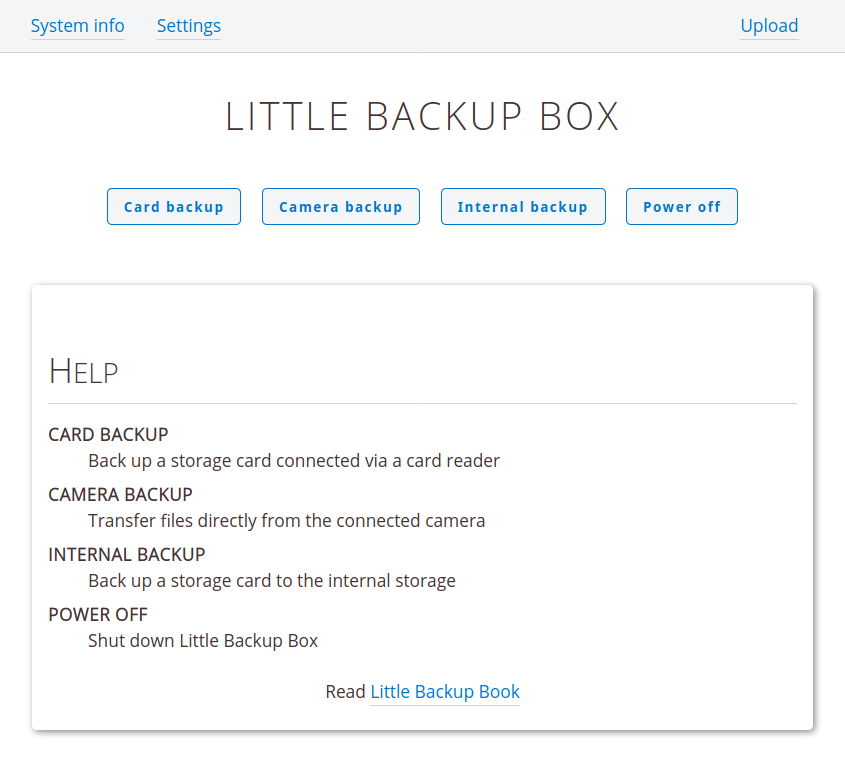
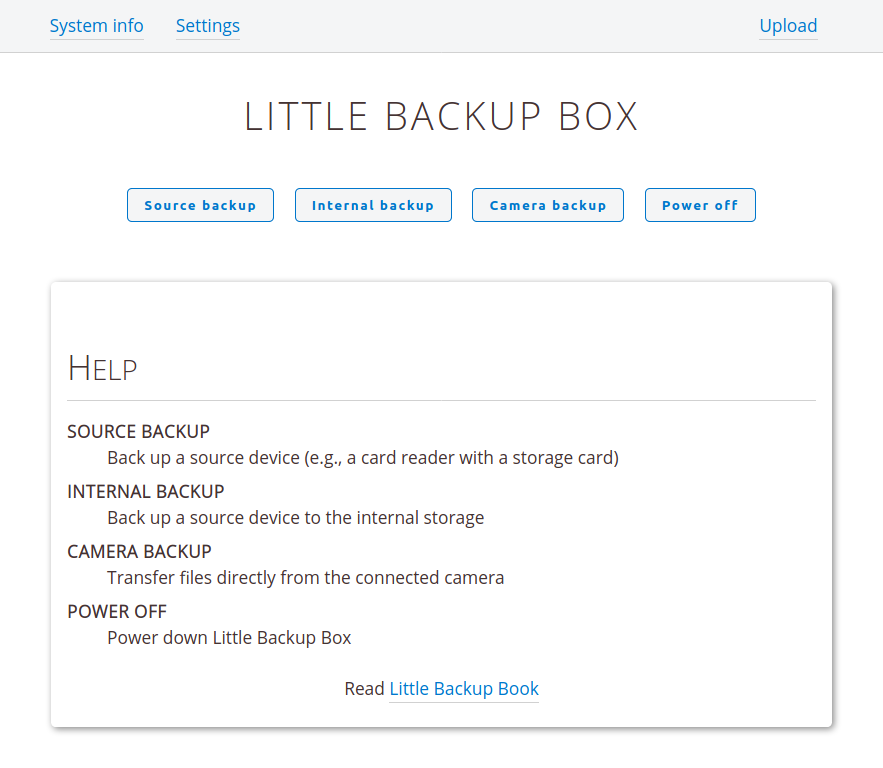
Minor tweaks

diff --git a/scripts/index.php b/scripts/index.php
@@ -27,8 +27,8 @@
 	</nav>
 	<form class="text-center" method="POST">
 		<button name="sourcebackup"><?php echo L::sourcebackup_b; ?></button>
-		<button name="camerabackup"><?php echo L::camerabackup_b; ?></button>
 		<button name="internalbackup"><?php echo L::internalbackup_b; ?></button>
+		<button name="camerabackup"><?php echo L::camerabackup_b; ?></button>
 		<button name="shutdown"><?php echo L::shutdown_b; ?></button>
 	</form>
 	<div class="card" style="margin-top: 3em;">

diff --git a/README.md b/README.md
@@ -6,9 +6,9 @@ Little Backup Box is an application that transforms a Raspberry Pi (or any singl
 
 ## Little Backup Box features
 
-- Back up data from one USB storage device to another. Little Backup Box supports all types of USB solid-state storage devices and all popular formats.
+- Back up data from one USB storage device to another. Little Backup Box supports all types of USB solid-state storage devices and all mainstream formats.
 - Transfer photos and RAW files directly from a camera to an external USB storage device. If your camera is supported by gPhoto2 software, it will work with Little Backup Box.
-- Use multiple cards and storage devices. Little Backup Box assigns a unique ID to each storage device and create a separate folder for it on the backup drive.
+- Use multiple source devices. Little Backup Box assigns a unique ID to each source device and create a separate folder for it on the backup drive.
 - Perform backup automatically, without any user interaction.
 - Use and control Little Backup Box via a web UI.
 - Stream the backed up contents to any DLNA-compatible client.
@@ -29,8 +29,6 @@ Little Backup Box supports three backup modes:
 - **Internal backup** Automatically backs up the contents of a source dive to the internal storage.
 
 During the installation, choose the desired mode from the selection dialog.
-
-<img src="img/installer.png" alt="" width="600"/>
 
 When prompted, reboot the Raspberry Pi.
 
@@ -55,10 +53,10 @@ The web UI allows you to control and manage Little Backup Box using any device w
 
 1. Boot the Raspberry Pi.
 2. Plug in a backup storage device.
-3. Plug the storage source device into the Raspberry Pi.
+3. Plug the source device into the Raspberry Pi.
 4. Wait till the Raspberry Pi shuts down.
 
-**Note:** To differentiate between different storage sources, the backup script creates a datetime-based *.id* file in the root of each source. The name of the *.id* file is also used as the destination backup folder on the storage device.
+**Note:** To differentiate between different source devices, the backup script creates a datetime-based *.id* file in the root of each source. The name of the *.id* file is also used as the destination backup folder on the storage device.
 
 ### Camera backup mode
 
